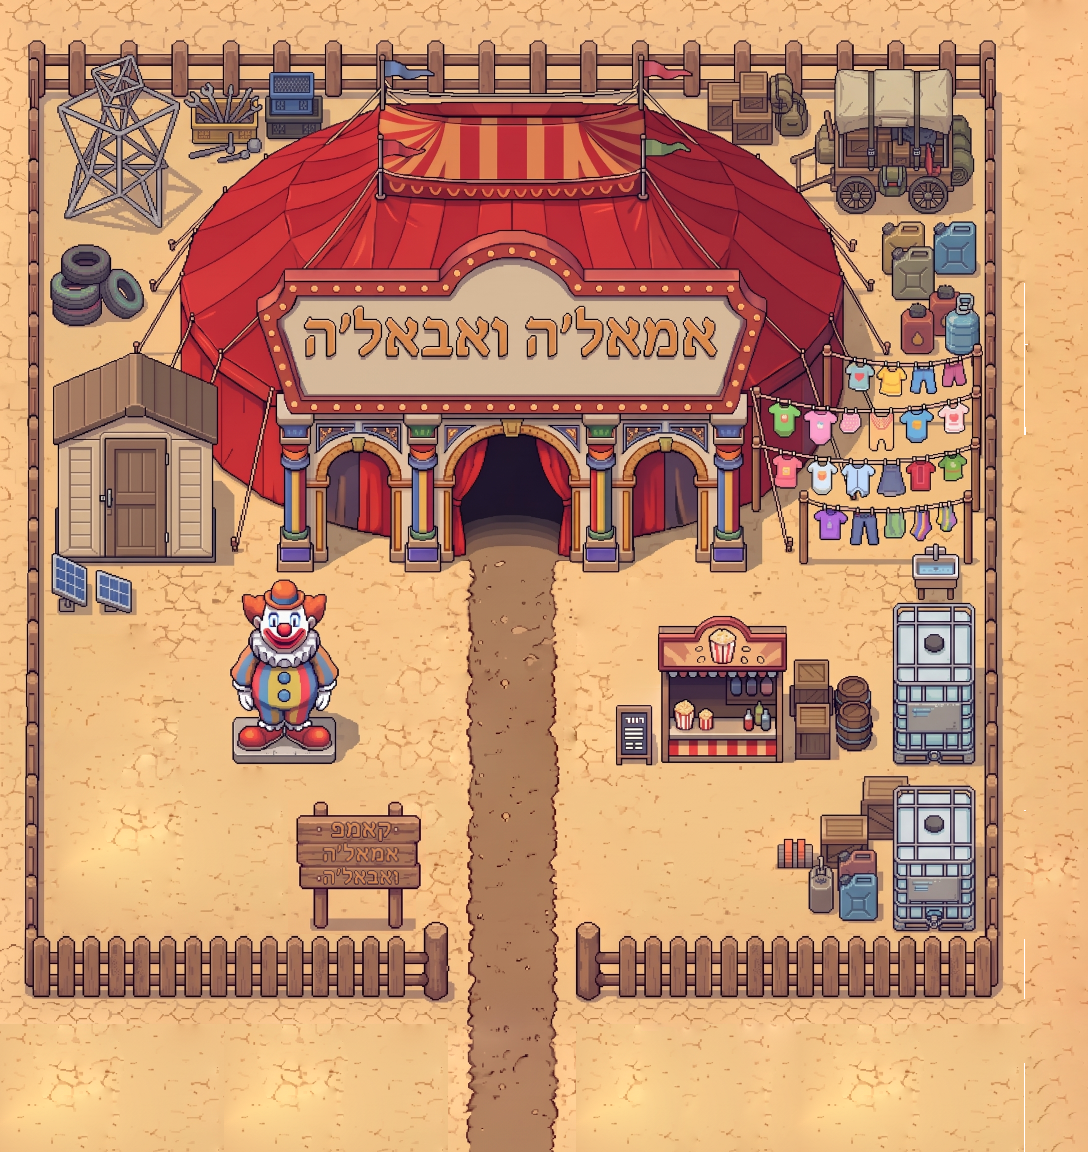
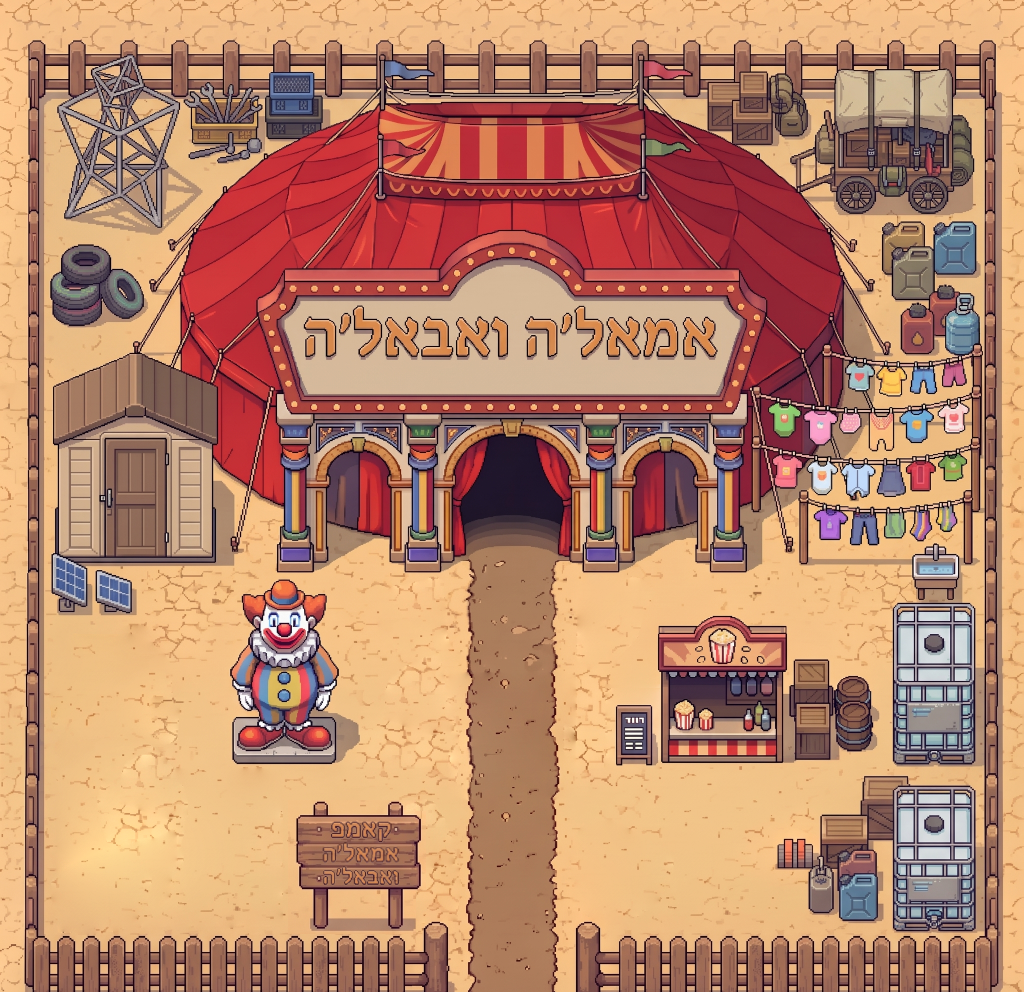
Resize mom-dad map and tileset
The mom-dad map and tileset were resized from 34x36 to 32x31, with the matching map data and world layout metadata updated to reflect the new dimensions. This commit also archives the tileset export, preserves the previous base/layer3 PNGs under maps/mom-dad/old, and refreshes the generated status files.

diff --git a/maps/status.js b/maps/status.js
@@ -1,5 +1,5 @@
 window.MAP_STATUS = {
-  "generated_at": "2026-10-14T11:18:26Z",
+  "generated_at": "2026-10-14T19:21:41Z",
   "repo_maps_path": "maps",
   "min_tiles": {
     "w": 20,
@@ -1383,10 +1383,10 @@ window.MAP_STATUS = {
       "base_size_ok": true,
       "base": {
         "present": true,
-        "width": 1088,
-        "height": 1152,
-        "tiles_w": 34,
-        "tiles_h": 36,
+        "width": 1024,
+        "height": 992,
+        "tiles_w": 32,
+        "tiles_h": 31,
         "size_ok": true
       },
       "has_layer2": false,
@@ -1401,10 +1401,10 @@ window.MAP_STATUS = {
       "has_layer3": true,
       "layer3": {
         "present": true,
-        "width": 1088,
-        "height": 1152,
-        "tiles_w": 34,
-        "tiles_h": 36,
+        "width": 1024,
+        "height": 992,
+        "tiles_w": 32,
+        "tiles_h": 31,
         "size_ok": true
       },
       "has_layer3b": false,
@@ -1413,8 +1413,8 @@ window.MAP_STATUS = {
       "tileset_in_game": true,
       "map_associated": true,
       "game_tiles": {
-        "tiles_w": 34,
-        "tiles_h": 36
+        "tiles_w": 32,
+        "tiles_h": 31
       },
       "connected": true,
       "connections": {
